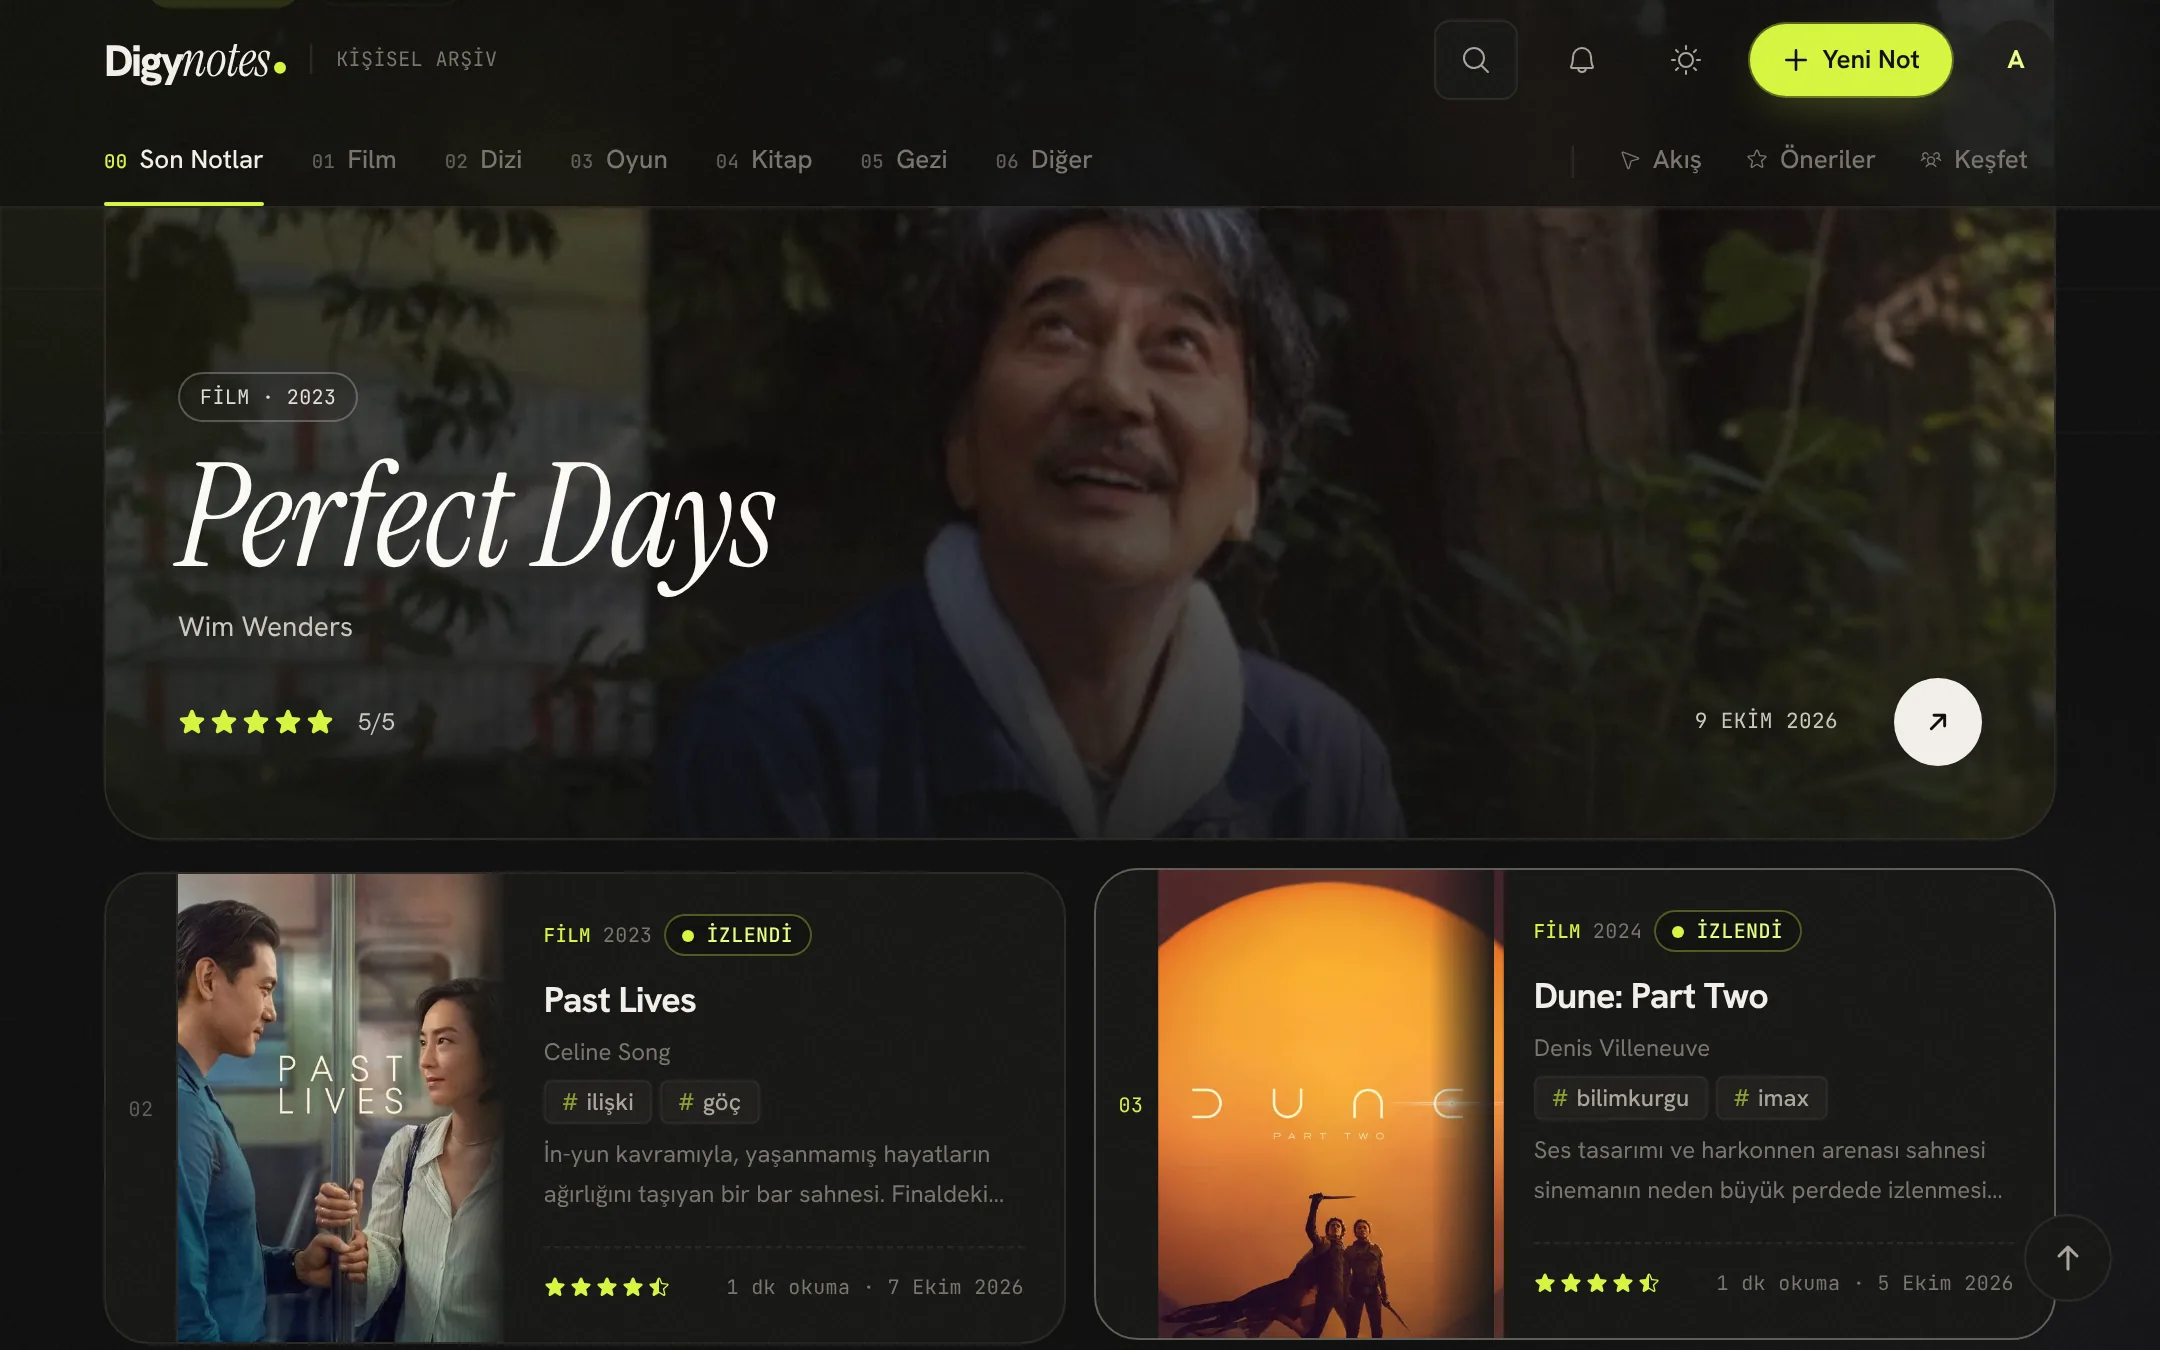
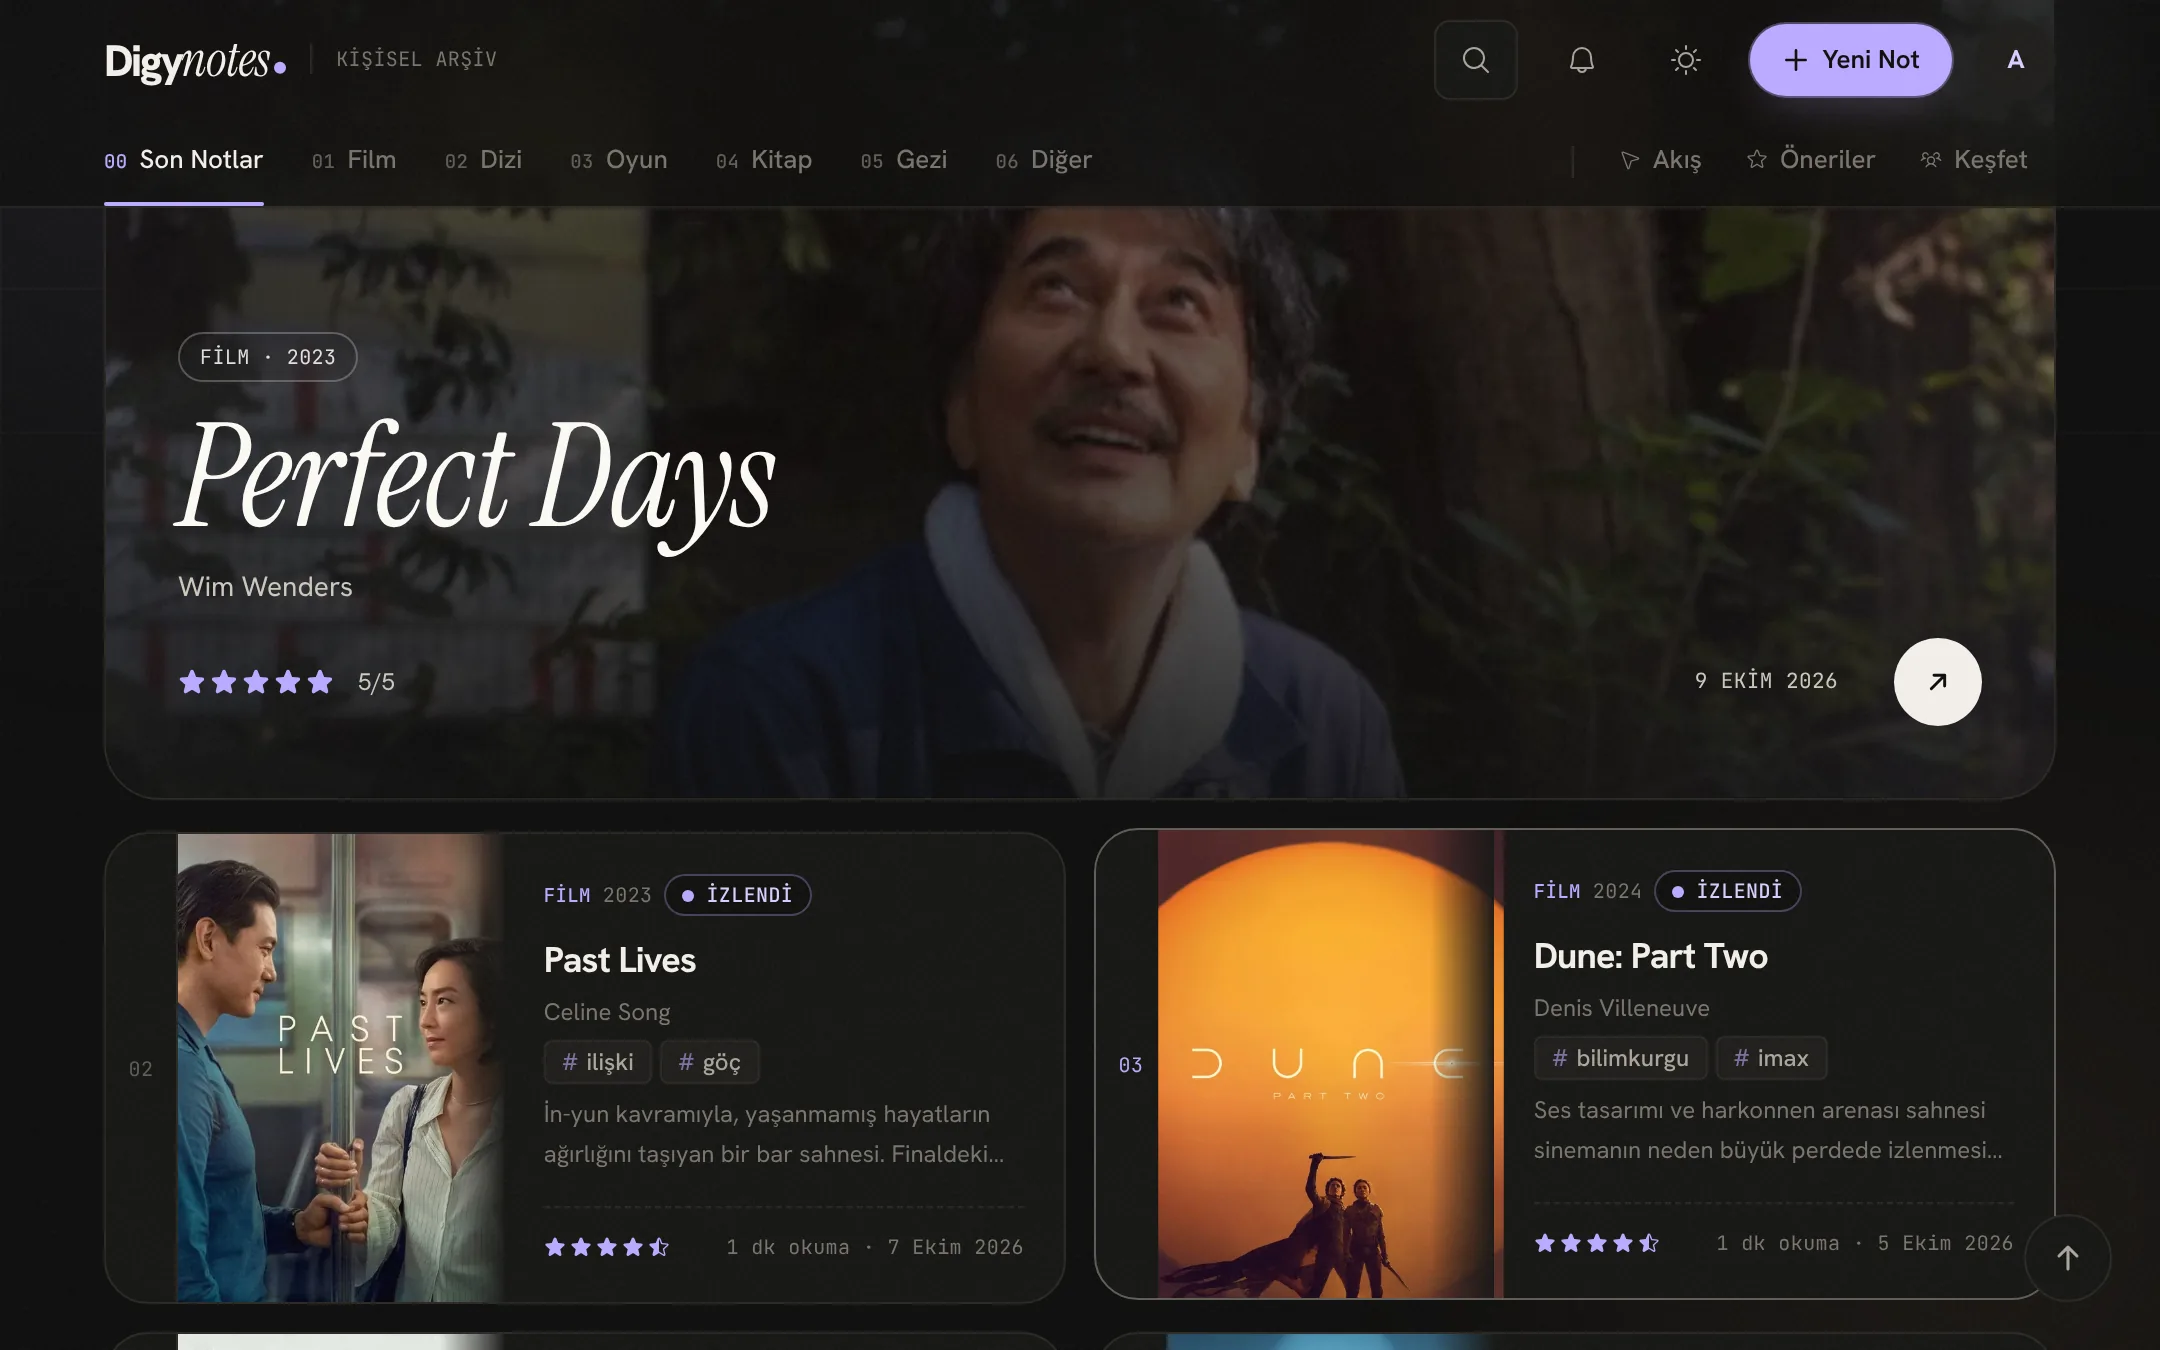
Teknoloji adları masaüstünde de hep görünür; DigyNotes yeni hero ve lavanta vurguyla
- Tech stack şeridi: ad üzerine gelmeden, mobildeki gibi logonun altında
- DigyNotes ekran görüntüleri yeni tasarımla yeniden çekildi (6 görsel + OG)
- DigyNotes vurgu rengi lavanta, zemin tonu mor

Claude-Session: https://claude.ai/code/session_016ADWfEhpTTUmHxukV71rS7

diff --git a/app/(site)/home.css b/app/(site)/home.css
@@ -540,38 +540,8 @@
   white-space: nowrap;
 }
 
-/* İnce imleçte ad yalnız üzerine gelince, karonun üstünde küçük bir hap
-   olarak belirir (3 Ekim 2026, sahibinin isteği). Dokunmatikte üzerine
-   gelme yok; orada ad karonun altında hep görünür. Opaklıkla gizli,
-   ekran okuyucu adı yine okur. */
-@media (hover: hover) and (pointer: fine) {
-  .home-stack-name {
-    position: absolute;
-    bottom: calc(100% + 0.15rem);
-    left: 50%;
-    z-index: 2;
-    padding: 0.3rem 0.65rem;
-    border-radius: 999px;
-    background: var(--text-strong);
-    color: var(--page-bg);
-    font-weight: 500;
-    opacity: 0;
-    translate: -50% 0.4rem;
-    pointer-events: none;
-    transition:
-      opacity 180ms var(--ease-brand),
-      translate 280ms var(--ease-brand);
-  }
-  /* Üstte ad hapına yer: hap karonun üstünde açılıyor ve şerit taşmayı
-     kesiyor. */
-  .home-marquee-list {
-    padding-top: 2.75rem;
-  }
-  .home-stack-tile:hover .home-stack-name {
-    opacity: 1;
-    translate: -50% -0.35rem;
-  }
-}
+/* Ad her cihazda karonun altında hep görünür (9 Ekim 2026, sahibinin
+   isteği): masaüstünde de üzerine gelmeye gerek kalmadı, mobildeki gibi. */
 
 @media (hover: hover) and (pointer: fine) {
   .home-stack-tile:hover .home-stack-logo {

diff --git a/lib/content/projects.ts b/lib/content/projects.ts
@@ -116,11 +116,11 @@ export const projects: Project[] = [
     tags: ['Next.js 14', 'TypeScript', 'Prisma', 'Neon', 'NextAuth', 'Tailwind CSS'],
     link: 'https://digy-notes.vercel.app',
     github: 'https://github.com/ahmetakyapi/DigyNotes',
-    accent: '#d4f53c',
-    /* Arayüz mürekkep siyahı + asit lime (9 Ekim 2026 yeniden tasarımı);
-       zemin tonu açık temadaki zeytin vurgu. */
-    tint: '#4f7300',
-    gradient: 'linear-gradient(135deg, #d4f53c 0%, #4f7300 100%)',
+    accent: '#b9a8ff',
+    /* Arayüz mürekkep siyahı + lavanta (9 Ekim 2026 yeniden tasarımı);
+       zemin tonu açık temadaki mor vurgu. */
+    tint: '#5b42d6',
+    gradient: 'linear-gradient(135deg, #b9a8ff 0%, #5b42d6 100%)',
     badge: 'Canlı',
     featured: false,
   },

diff --git a/components/home/StackMarquee.tsx b/components/home/StackMarquee.tsx
@@ -3,7 +3,8 @@ import { techStack } from '@/lib/content/tech-stack'
 /**
  * Tech stack: sayfadaki TEK marquee. 3 Ekim 2026: logolar küçük ve
  * süssüz duruyordu; artık her logo kendi karosunda, büyük ve altında adı
- * yazılı. Üzerine gelinen karo yükselir, logo markanın mavisine döner.
+ * yazılı; ad masaüstünde de hep görünür (9 Ekim 2026). Üzerine gelinen
+ * karo yükselir, logo markanın mavisine döner.
  *
  * Neden kayan şerit: on bir logoyu tek tek okutmaya değmez, tech stack'in
  * genişliği bir bakışta anlaşılsın yeter. Üzerine gelince ya da klavyeyle
